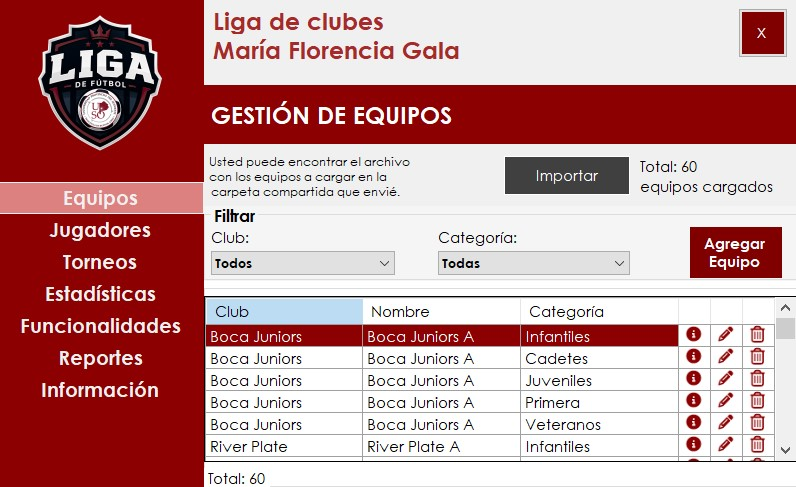
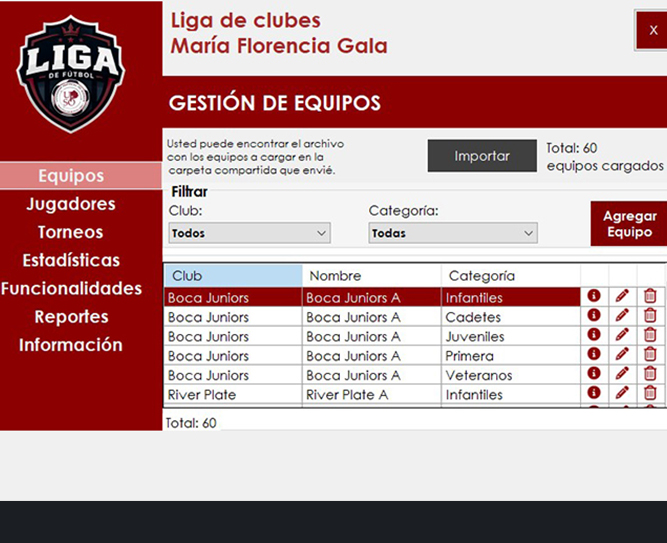
Added proyect N8N

diff --git a/components/portfolio-box.tsx b/components/portfolio-box.tsx
@@ -17,8 +17,8 @@ interface PortfolioBoxProps {
         features: string[],
         technologies: Technology[],
         date_end: string,
-        urlGitHub: string,
-        urlDemo: string,
+        urlGitHub?: string,
+        urlDemo?: string,
         urlDownload?: string,
     }
 }
@@ -69,14 +69,20 @@ const PortfolioBox = ({ data }: PortfolioBoxProps) => {
                 )}
 
                 <div className="flex gap-3 mt-auto">
-                    <Link
-                        href={urlGitHub || "#"}
-                        target={urlGitHub ? "_blank" : "_self"}
-                        onClick={e => { if (!urlGitHub) e.preventDefault() }}
-                        className="flex-1 text-center py-2 text-xs font-medium rounded-lg bg-slate-600 hover:bg-slate-500 transition-colors"
-                    >
-                        GitHub
-                    </Link>
+                    {urlGitHub ? (
+                        <Link
+                            href={urlGitHub || "#"}
+                            target={urlGitHub ? "_blank" : "_self"}
+                            onClick={e => { if (!urlGitHub) e.preventDefault() }}
+                            className="flex-1 text-center py-2 text-xs font-medium rounded-lg bg-slate-600 hover:bg-slate-500 transition-colors"
+                        >
+                            GitHub                    
+                        </Link>
+                    ) : (
+                        <span className="flex-1 text-center py-2 text-xs font-medium rounded-lg bg-slate-600/50 cursor-not-allowed">
+                        
+                        </span>
+                    )}   
                      {urlDownload ? (
                         <a
                             href={urlDownload}
@@ -85,16 +91,18 @@ const PortfolioBox = ({ data }: PortfolioBoxProps) => {
                         >
                             Descargar app
                         </a>
-                     ):(        
-                        <Link
-                            href={urlDemo || "#"}
-                            target={urlDemo ? "_blank" : "_self"}
-                            onClick={e => { if (!urlDemo) e.preventDefault() }}
-                            className="flex-1 text-center py-2 text-xs font-medium rounded-lg bg-secondary hover:bg-secondary/80 transition-colors"
-                        >
-                            Demo
-                        </Link>
-                        )}
+                     ):(  
+                        urlDemo && (
+                            <Link
+                                href={urlDemo || "#"}
+                                target={urlDemo ? "_blank" : "_self"}
+                                onClick={e => { if (!urlDemo) e.preventDefault() }}
+                                className="flex-1 text-center py-2 text-xs font-medium rounded-lg bg-secondary hover:bg-secondary/80 transition-colors"
+                            >
+                                Demo
+                            </Link>
+                        )
+                    )}
                 </div>                
             </div>
         </div>

diff --git a/data.tsx b/data.tsx
@@ -99,6 +99,35 @@ export const dataProjects = [
     }, 
     {
         id: 2,
+        title: "Comentarios automáticos",
+        image:"/work-4.jpg",
+        description:"Sistema 'automatizador' de comentarios de Youtube que clasifica cada comentario y le responde. Como base de datos lo conecté a supabase y con chatGPT como genio clasificador de comentarios.",
+        features: [
+            "Evalua el tipo de comentario",
+            "Responde automáticamnete",
+            "Conexión a supabase como base de datos",
+            "Utiliza chatGPT para clasificar y generar la respuesta",
+            ],
+        technologies:[
+            {
+                name: "N8N",
+                icon:"/n8n.svg",
+            },
+            {
+                name: "Supabase",
+                icon:"/supabase.svg",
+            },
+            {
+                name: "ChatGPT-API",
+                icon:"/chatgpt.svg",
+            },
+        ],
+        date_end: "28/12/2025",
+        urlDemo: "",
+        urlDownload: "",
+    }, 
+    {
+        id: 3,
         title: "ObraPro",
         image:"/work-2.jpeg",
         description:"Sitio web de una sola página para ObraPro, empresa de servicios especializados con cobertura en Córdoba, Argentina.",
@@ -127,7 +156,7 @@ export const dataProjects = [
         urlDemo:"https://obraprocba.netlify.app/",
     }, 
     {
-        id: 3,
+        id: 4,
         title: "Portfolio",
         image:"/work-1.jpg",
         description:"Creación de portfolio personal con Next.js, agregué animacion de partículas y busqué una estética atractiva visualmente.",
